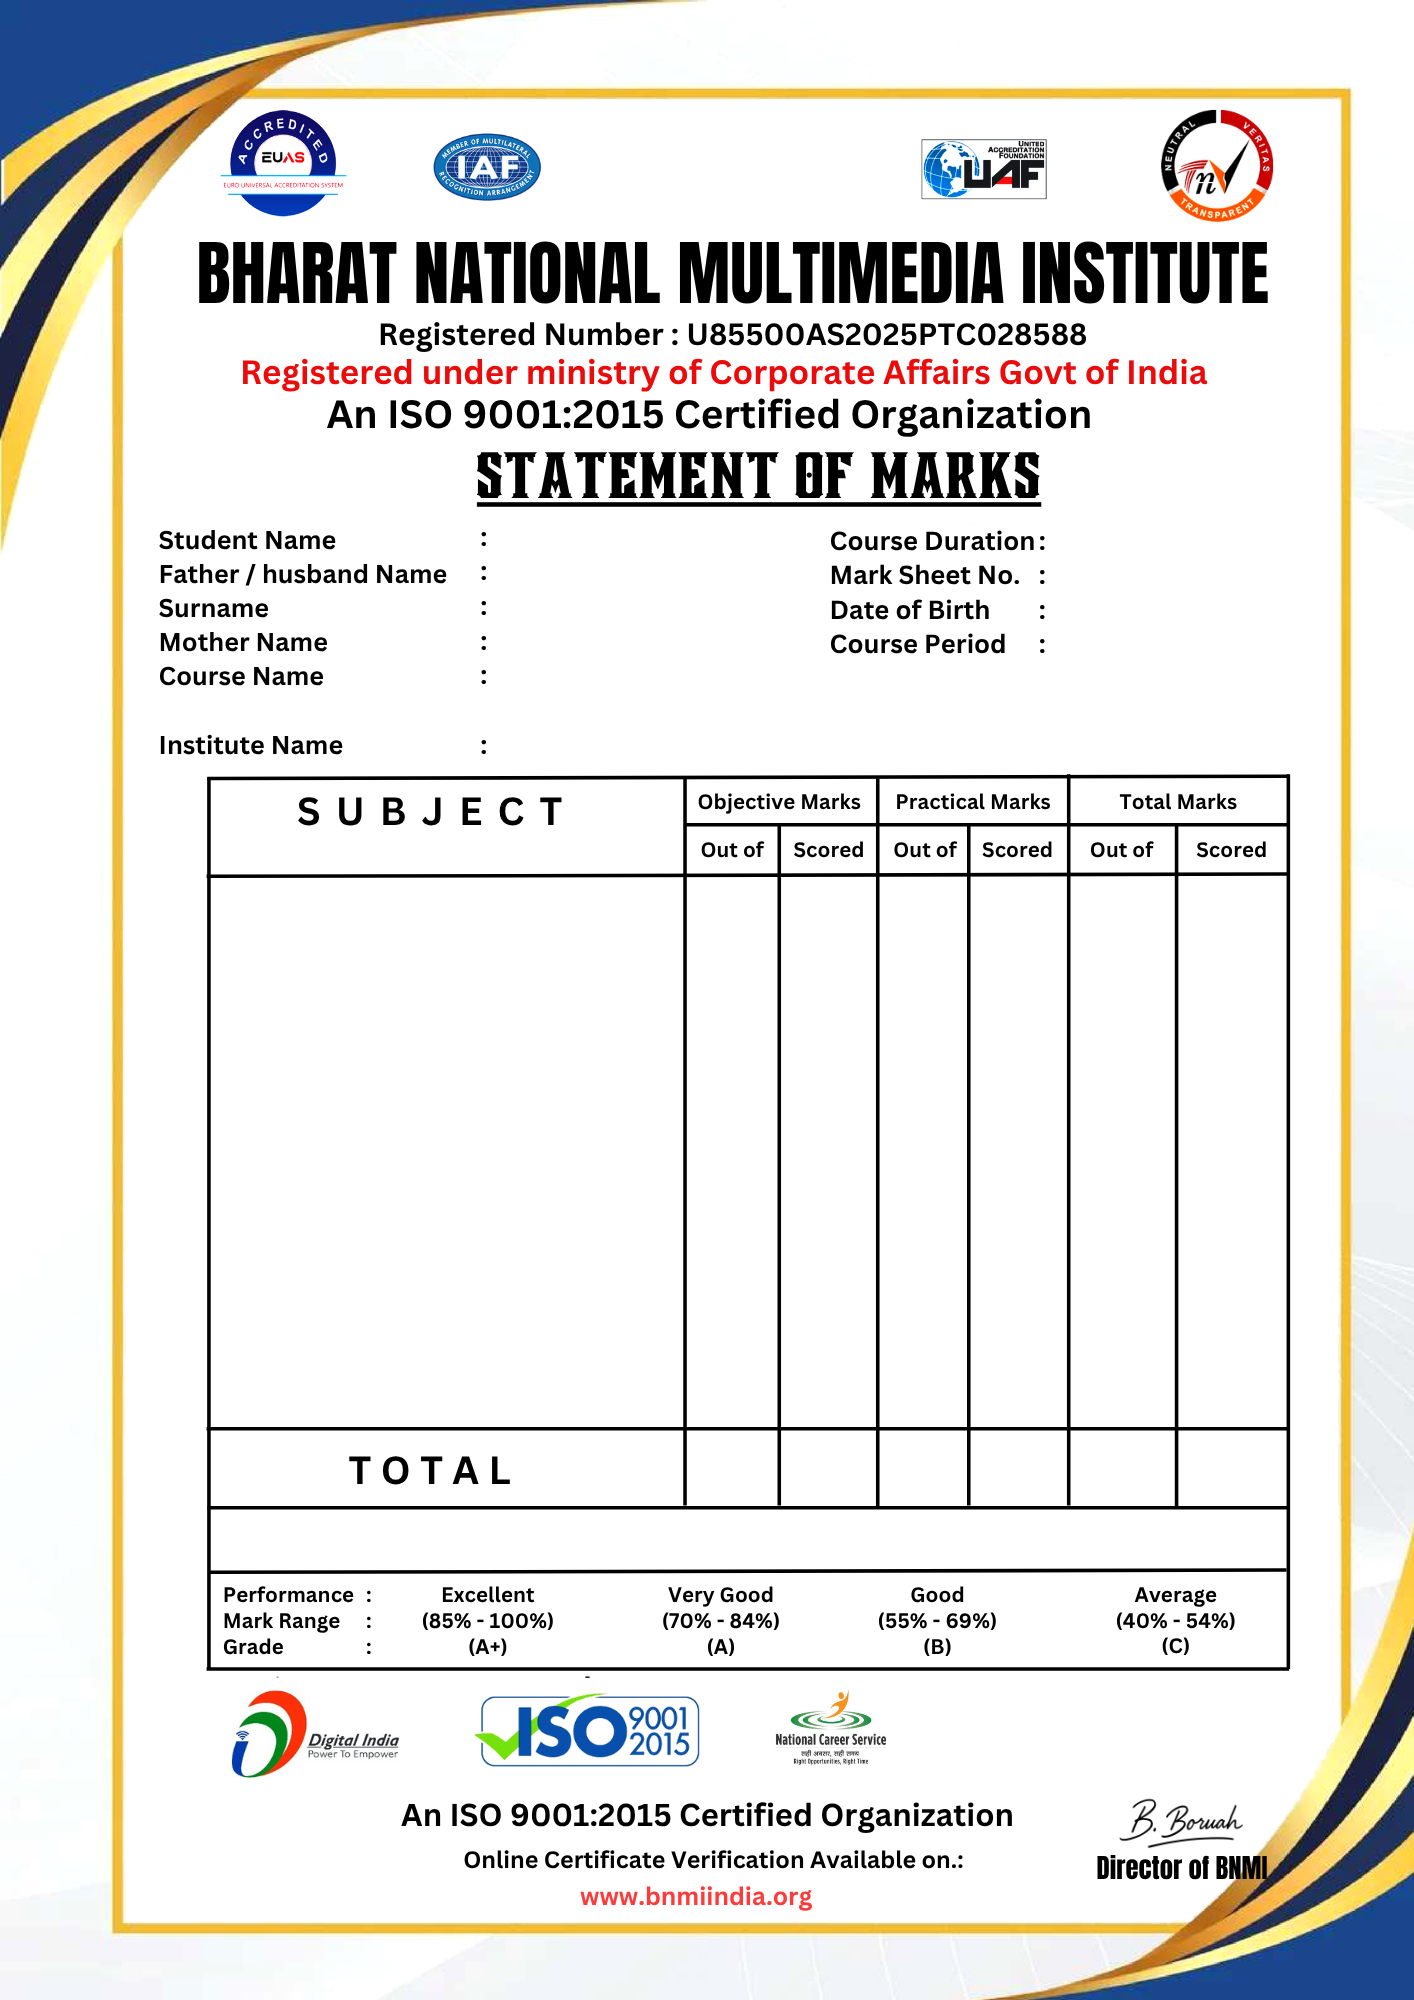
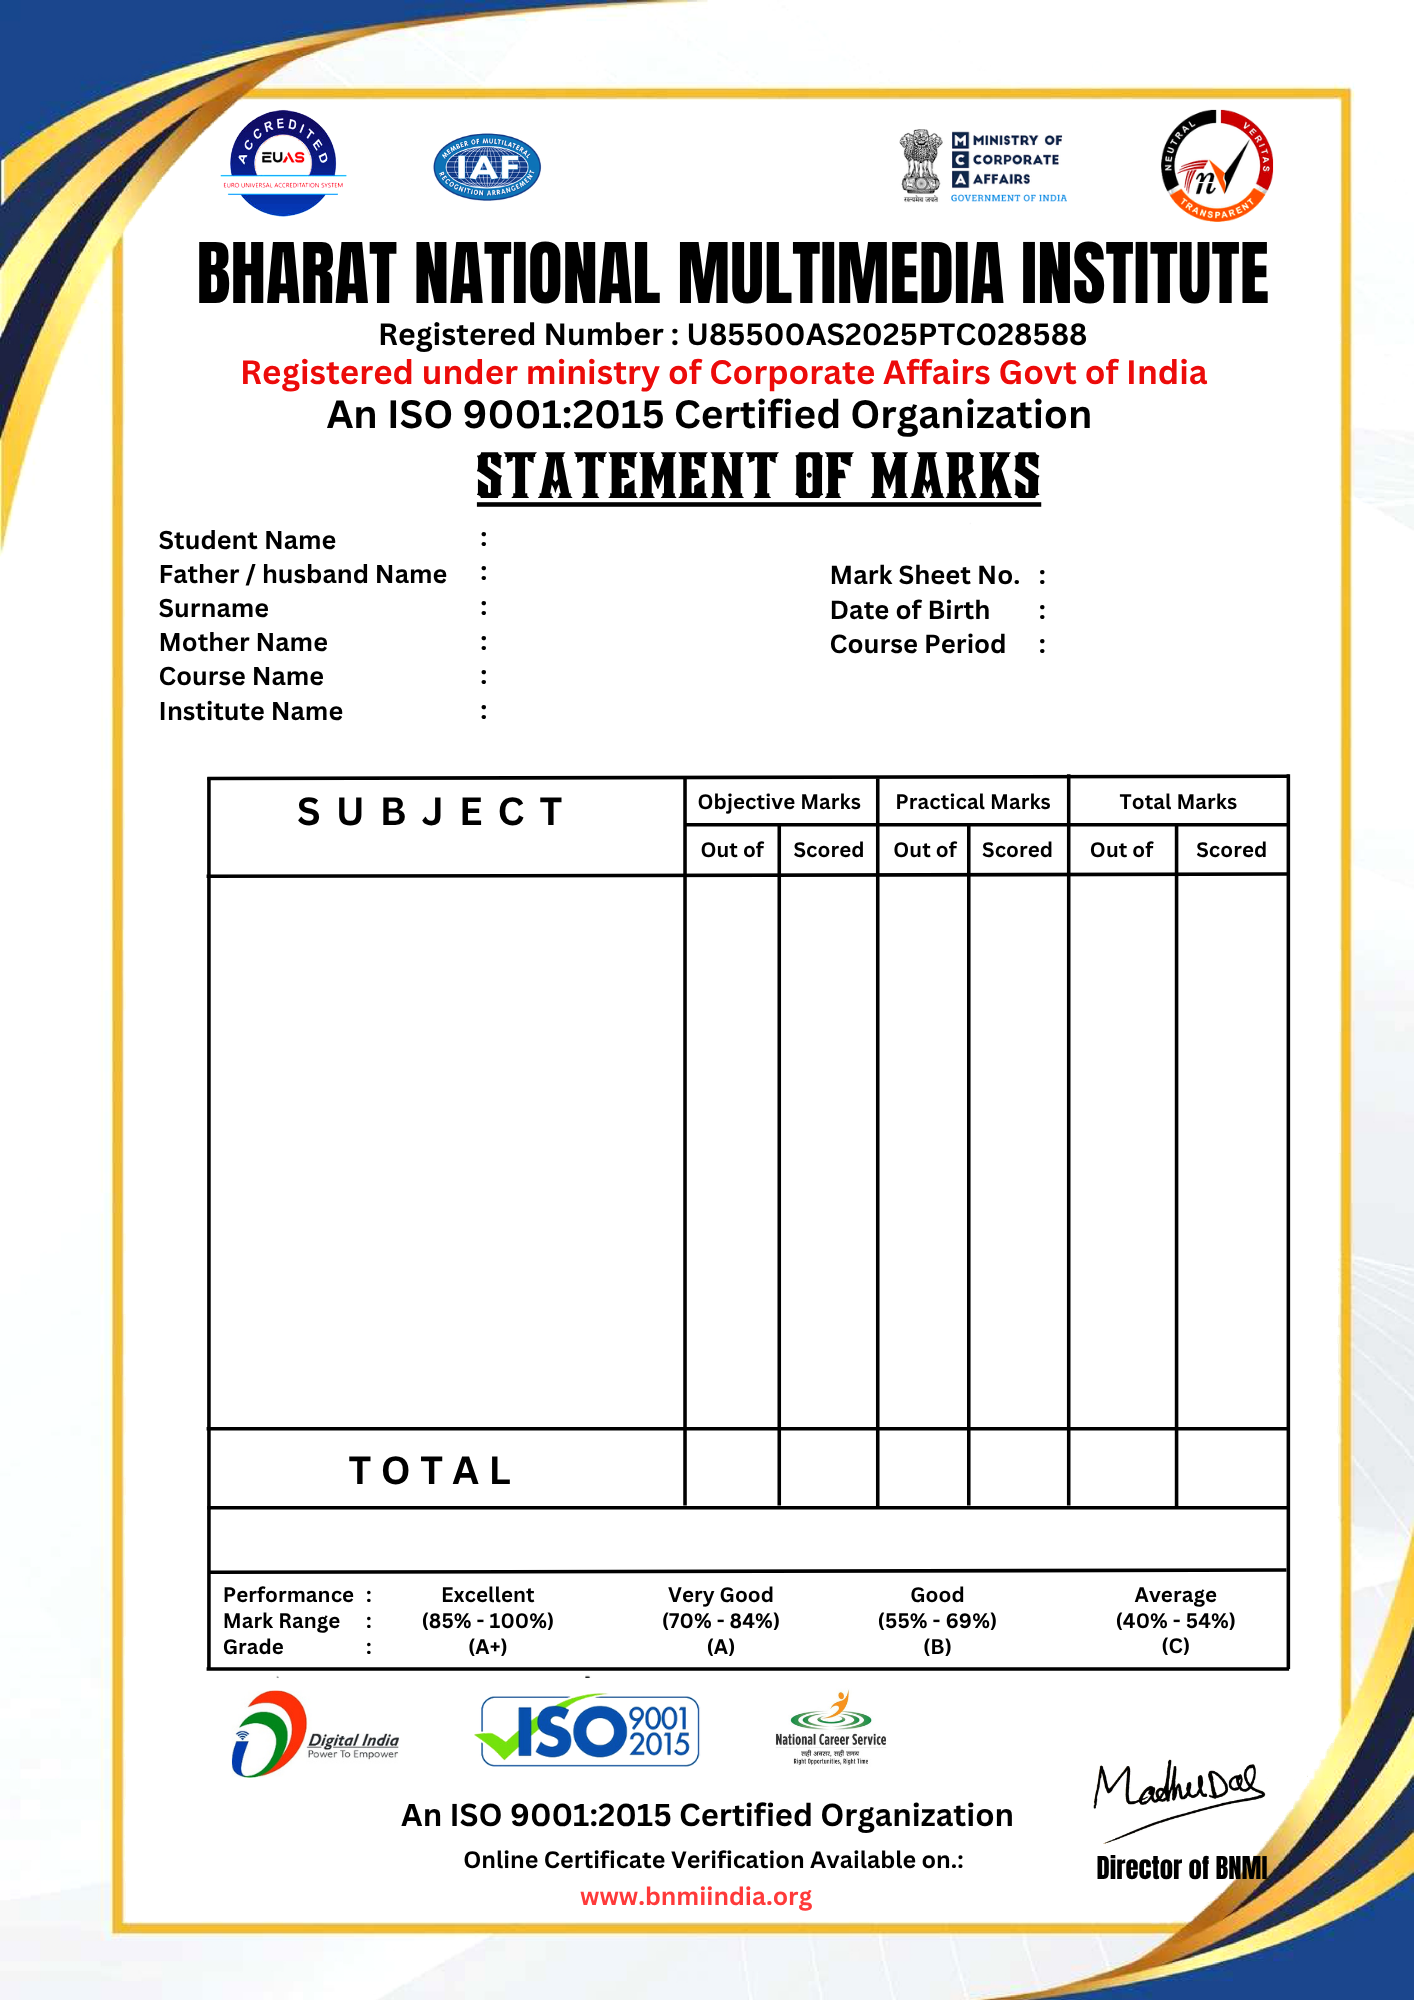
certificate update

diff --git a/src/app/login/institute/(protected)/certificate/multiple-marksheet/[id]/page.jsx b/src/app/login/institute/(protected)/certificate/multiple-marksheet/[id]/page.jsx
@@ -289,7 +289,7 @@ const totalOutOf = marksArray.length * 100;
   }}
 >
         {/* TEMPLATE */}
-        <img src="/multiplemarksheet.jpg" className="absolute w-full h-full" />
+        <img src="/multiplemark.png" className="absolute w-full h-full" />
 
         {/* LOGO */}
         {student?.logo && (

diff --git a/src/app/login/institute/(protected)/certificate/beauty-marksheet/[id]/page.jsx b/src/app/login/institute/(protected)/certificate/beauty-marksheet/[id]/page.jsx
@@ -181,7 +181,7 @@ const rect = node.getBoundingClientRect();
     overflow: "visible"
   }}
 >
-        <img src="/beauty-marksheet.png" className="absolute w-full h-full" />
+        <img src="/singlemarksheet.png" className="absolute w-full h-full" />
 
         {/* LOGO */}
       {student.logo && (

diff --git a/src/app/login/institute/(protected)/certificate/marksheet/[id]/page.jsx b/src/app/login/institute/(protected)/certificate/marksheet/[id]/page.jsx
@@ -285,7 +285,7 @@ export default function PrintMarksheet() {
 
         {/* BG */}
         <img
-          src="/beautymark.jpeg"
+          src="/singlemarksheet.png"
           className="absolute w-full h-full"
         />
 
